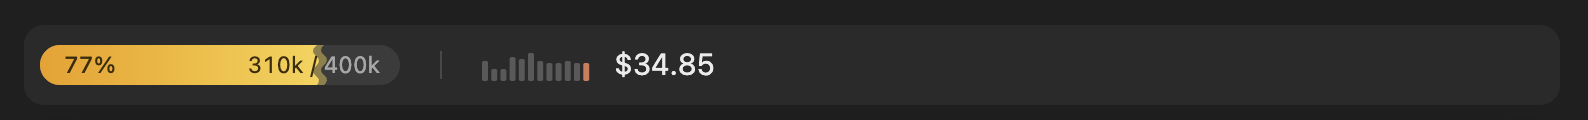
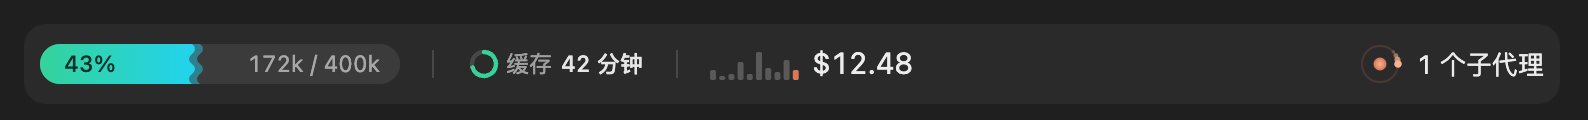
docs(readme): show the cache countdown and the current sprout pane
New screenshots of both mods, rendered from their own drawing code. The
dev-band text adds the cache segment and how the band drops parts when
narrow; the sprout text adds the 30 天 / 全部 range and the daily merges.

diff --git a/README.md b/README.md
@@ -18,8 +18,11 @@ Mods are plugins that redraw parts of Claude Code. `settings.json` loads both mo
 ![The dev-band above the prompt](mods/dev-band/screenshot.png)
 
 - **Context**: a liquid meter of the context used. It measures against the 400k auto-compact window, not the model's 1M window.
+- **Cache**: a ring that drains until the prompt cache expires, with the time left. It turns amber near the end and reads 已过期 once the cache is gone, so the next turn writes it again. The time is an estimate: the last main-thread response plus the cache TTL.
 - **Cost**: the session cost, with a sparkline of the cost of each turn and a rolling number when it goes up.
 - **Agents**: running subagents circle as comets on the right, so the band does not shift when they start and stop.
+
+The band never wraps. When it is narrow, it drops the least useful parts first and keeps the context percentage and the cache time to the end.
 
 ### sprout (芽团), a pane beside the chat
 
@@ -32,8 +35,9 @@ Long-lived numbers that one session cannot show:
   - Its mood follows the quota, the streak, the time of day and merged PRs.
   - It has buttons to feed it, pat it, or get another line.
 - **Quota**: this week's and the 5-hour quota, each with a forecast for its reset.
-- **Usage**: total tokens, estimated API cost, the streak and the cache hit rate, from the first transcript on. A daily trend and a heatmap go with them.
-- **GitHub**: the PRs merged each day over the last 30 days, with the lines each day added and deleted, and the contribution heatmap.
+- **Usage**: total tokens, estimated API cost, the streak and the cache hit rate, with a daily token trend and a heatmap of the past year.
+- **GitHub**: the PRs merged each day, as one bar of the lines added and deleted, and the contribution heatmap of the past year.
+- **Range**: one `30 天 / 全部` switch sets the range of the usage numbers, the daily trend and the merges. 全部 starts at the first transcript. The pane remembers the choice across sessions.
 
 If the window is too narrow for the pane to open by itself, open it with `/sprout`.
 
